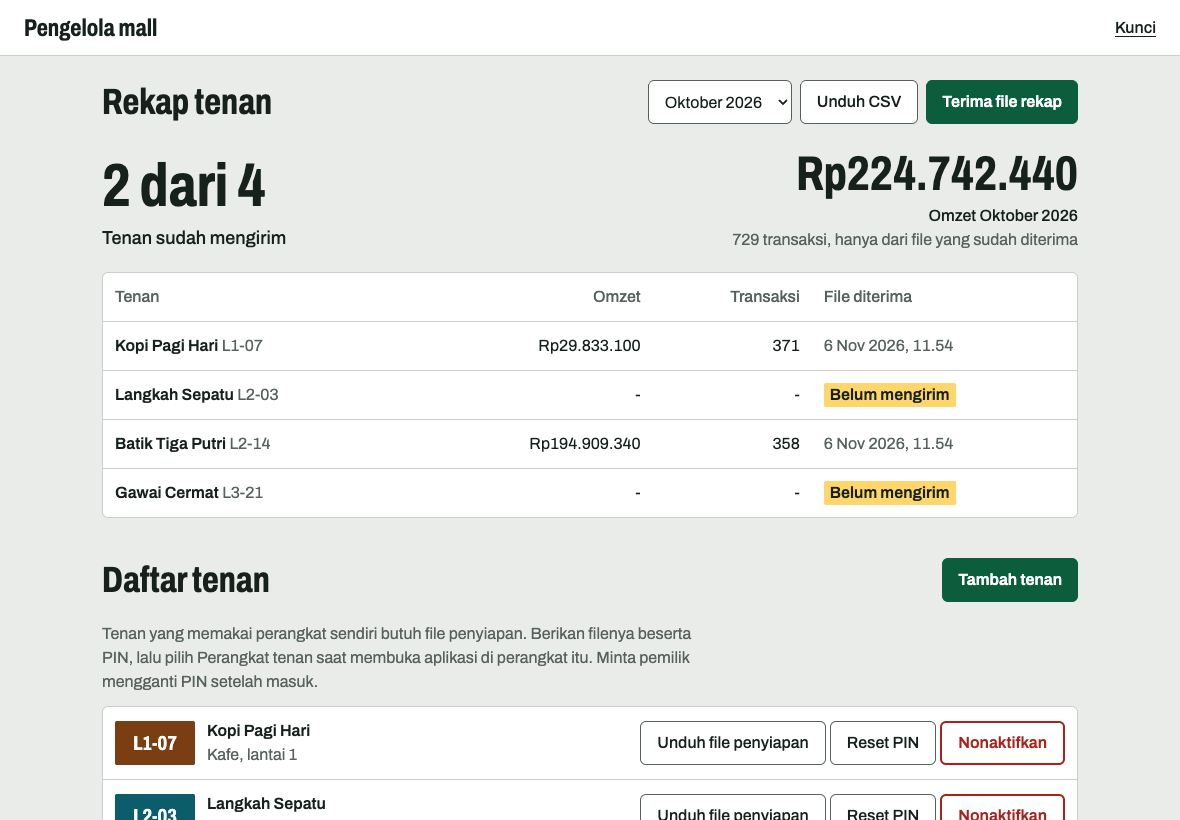
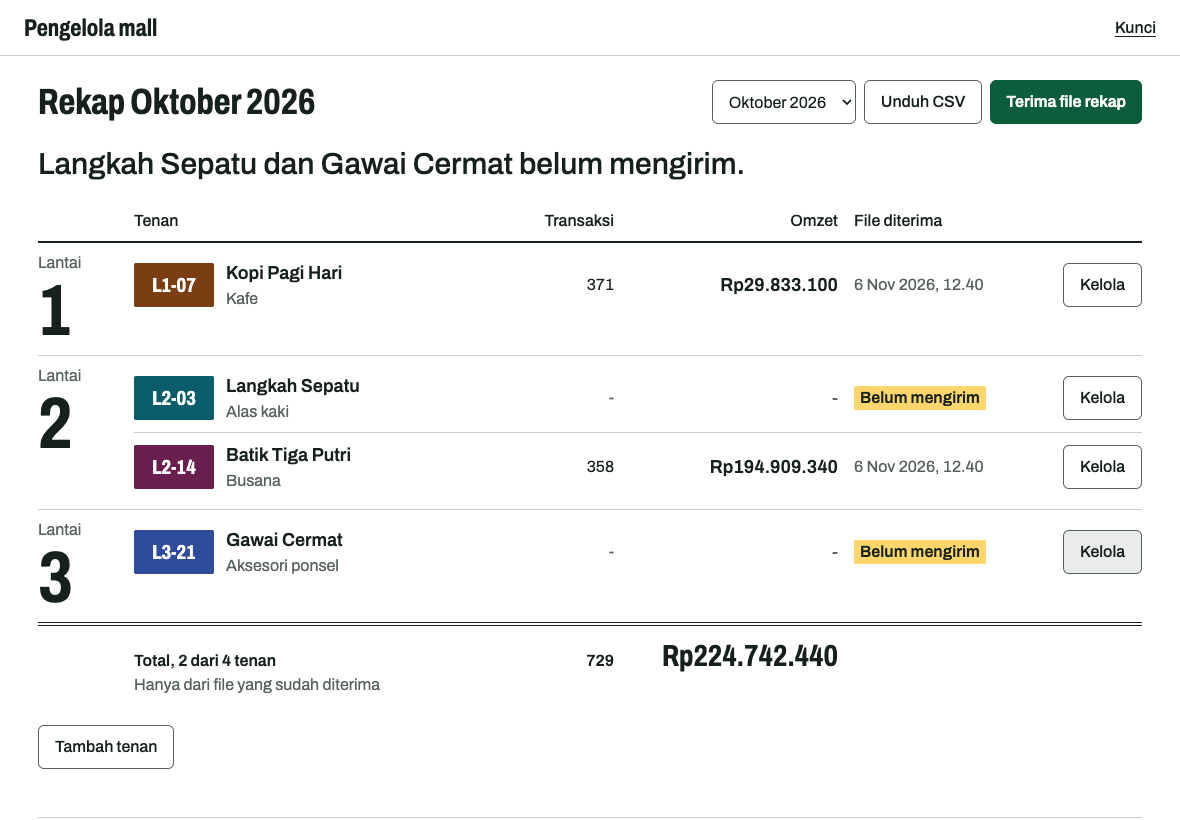
feat: susun ulang layar pengelola mall menjadi papan rekap per lantai
- Kalimat pembuka menyebut tenan yang belum mengirim
- Rekap dan daftar tenan digabung, dikelompokkan per lantai
- Total menjadi baris jumlah di bawah kolom
- Tindakan tenan pindah ke tombol Kelola, dan merah hanya untuk hapus data

diff --git a/src/screens/Admin.tsx b/src/screens/Admin.tsx
@@ -6,7 +6,86 @@ import { DEMO_ENABLED } from '../data/demo'
 import type { Backup, Tenant } from '../domain/schemas'
 import { reportError, useSession, useToast } from '../store'
 import { UpdateBanner } from '../ui/UpdateBanner'
-import { Button, Chip, Empty, Field, Input, Modal, PageTitle, PinInput, Select, UnitTag, dateTime, downloadFile, monthLabel, pickJsonFile, rupiah, sheet } from '../ui/kit'
+import { Button, Chip, Empty, Field, FloorLabel, Input, Modal, PageTitle, PinInput, Select, UnitTag, dateTime, downloadFile, monthLabel, pickJsonFile, rupiah } from '../ui/kit'
+
+type Rekap = Awaited<ReturnType<typeof repo.listRekap>>[number]
+
+/** Kolom papan rekap, sama untuk kepala, baris tenan, dan baris total. */
+const BOARD_COLUMNS = 'lg:grid-cols-[minmax(0,1fr)_6rem_13rem_11rem_6rem]'
+/** Kolom kiri selebar angka lantai, supaya kepala dan total sejajar dengan baris tenan. */
+const FLOOR_OFFSET = 'sm:pl-24'
+
+/** Kalimat pembuka menyebut nama tenan, supaya pengelola tidak perlu mencarinya di daftar. */
+function sendingSummary(activeCount: number, missing: Tenant[]) {
+  if (activeCount === 0) return 'Belum ada tenan aktif.'
+  if (missing.length === 0) return 'Semua tenan sudah mengirim.'
+  if (missing.length === activeCount) return 'Belum ada tenan yang mengirim.'
+  const names = missing.map((t) => t.name)
+  if (names.length === 1) return `${names[0]} belum mengirim.`
+  if (names.length <= 3) return `${names.slice(0, -1).join(', ')} dan ${names[names.length - 1]} belum mengirim.`
+  return `${names.slice(0, 2).join(', ')}, dan ${names.length - 2} tenan lain belum mengirim.`
+}
+
+function TenantRow({ ctx, tenant: t, rekap: r, open, onToggle, onResetPin }: { ctx: repo.Ctx; tenant: Tenant; rekap?: Rekap; open: boolean; onToggle: () => void; onResetPin: () => void }) {
+  const ok = (message: string) => useToast.getState().show(message)
+  return (
+    <li>
+      <div className={`grid grid-cols-[1fr_auto] items-center gap-x-4 gap-y-1 py-2 ${BOARD_COLUMNS}`}>
+        <div className="col-span-2 flex min-w-0 items-center gap-3 lg:col-span-1">
+          <UnitTag unit={t.unit} color={t.color} className="min-w-20 px-2 py-2 text-xl" />
+          <span className="min-w-0 break-words">
+            <span className="block text-lg font-semibold">{t.name}</span>
+            <span className="text-muted">{t.category}</span>
+          </span>
+        </div>
+        <div className={`tnum lg:text-right ${r ? '' : 'hidden lg:block lg:text-muted'}`}>
+          {r ? r.transactions : '-'}
+          <span className="text-muted lg:hidden"> transaksi</span>
+        </div>
+        <div className={`tnum text-right text-lg font-semibold whitespace-nowrap ${r ? '' : 'hidden lg:block lg:font-normal lg:text-muted'}`}>{r ? rupiah(r.net) : '-'}</div>
+        <div className="tnum text-muted">{r ? dateTime(r.importedAt) : <Chip>Belum mengirim</Chip>}</div>
+        <div className="text-right">
+          <Button aria-expanded={open} onClick={onToggle} className="px-3">
+            {open ? 'Tutup' : 'Kelola'}
+          </Button>
+        </div>
+      </div>
+      {open && (
+        <div className="mb-2 rounded-key bg-floor p-3">
+          <div className="flex flex-wrap gap-2">
+            <Button
+              onClick={async () => {
+                try {
+                  const setup = await repo.exportTenantSetup(ctx, t.id)
+                  downloadFile(`penyiapan-${t.unit}.json`, JSON.stringify(setup))
+                  ok(`File penyiapan ${t.name} diunduh. Pasang di perangkat tenan.`)
+                } catch (err) {
+                  reportError(err)
+                }
+              }}
+            >
+              Unduh file penyiapan
+            </Button>
+            <Button onClick={onResetPin}>Reset PIN</Button>
+            <Button
+              onClick={async () => {
+                try {
+                  await repo.setTenantActive(ctx, t.id, !t.active)
+                  ok(t.active ? `${t.name} dinonaktifkan.` : `${t.name} diaktifkan.`)
+                } catch (err) {
+                  reportError(err)
+                }
+              }}
+            >
+              {t.active ? 'Nonaktifkan' : 'Aktifkan'}
+            </Button>
+          </div>
+          <p className="mt-2 max-w-prose text-muted">Tenan yang memakai perangkat sendiri butuh file penyiapan. Berikan filenya beserta PIN, lalu pilih Perangkat tenan saat membuka aplikasi di perangkat itu. Minta pemilik mengganti PIN setelah masuk.</p>
+        </div>
+      )}
+    </li>
+  )
+}
 
 export function Admin({ ctx }: { ctx: repo.Ctx }) {
   const signOut = useSession((s) => s.signOut)
@@ -19,8 +98,17 @@ export function Admin({ ctx }: { ctx: repo.Ctx }) {
   const [restoring, setRestoring] = useState<Backup | null>(null)
   const [erasing, setErasing] = useState(false)
   const [pinTenant, setPinTenant] = useState<Tenant | null>(null)
+  const [managing, setManaging] = useState<string | null>(null)
 
   const sorted = [...tenants].sort((a, b) => a.unit.localeCompare(b.unit))
+  const active = sorted.filter((t) => t.active)
+  const inactive = sorted.filter((t) => !t.active)
+  const floors = [...new Set(active.map((t) => t.floor))].sort((a, b) => a - b)
+  const rekapOf = (t: Tenant) => rekap.find((x) => x.tenantId === t.id)
+  const missing = active.filter((t) => !rekapOf(t))
+  const row = (t: Tenant) => (
+    <TenantRow key={t.id} ctx={ctx} tenant={t} rekap={rekapOf(t)} open={managing === t.id} onToggle={() => setManaging(managing === t.id ? null : t.id)} onResetPin={() => setPinTenant(t)} />
+  )
   const total = rekap.reduce((sum, r) => sum + r.net, 0)
   const count = rekap.reduce((sum, r) => sum + r.transactions, 0)
   const ok = (message: string) => useToast.getState().show(message)
@@ -43,7 +131,7 @@ export function Admin({ ctx }: { ctx: repo.Ctx }) {
   }
 
   return (
-    <div className="h-full overflow-y-auto">
+    <div className="h-full overflow-y-auto bg-surface">
       <header className="flex min-h-14 items-center justify-between border-b border-line bg-surface pr-2 pl-4 sm:pl-6">
         <span className="sign text-2xl">Pengelola mall</span>
         <Button tone="quiet" className="px-2" onClick={signOut}>
@@ -51,127 +139,78 @@ export function Admin({ ctx }: { ctx: repo.Ctx }) {
         </Button>
       </header>
       <UpdateBanner />
-      <main className="mx-auto max-w-5xl space-y-10 p-4 sm:p-6">
-        <section>
-          <PageTitle title="Rekap tenan">
-            {months.length > 0 && (
-              <Select aria-label="Bulan rekap" value={month} onChange={(e) => setChosen(e.target.value)} className="w-auto!">
-                {months.map((m) => (
-                  <option key={m} value={m}>
-                    {monthLabel(m)}
-                  </option>
-                ))}
-              </Select>
-            )}
-            <Button disabled={!rekap.length} onClick={exportCsv}>
-              Unduh CSV
-            </Button>
-            <Button tone="primary" onClick={importFile}>
-              Terima file rekap
-            </Button>
-          </PageTitle>
-          {/* Pertanyaan pertama pengelola: siapa yang sudah mengirim, dan berapa totalnya. */}
-          <div className="mb-5 flex flex-wrap items-end justify-between gap-x-10 gap-y-3">
-            <p>
-              <span className="sign block text-6xl leading-tight">
-                {rekap.length} dari {tenants.filter((t) => t.active).length}
-              </span>
-              <span className="text-lg font-medium">Tenan sudah mengirim</span>
-            </p>
-            <p className="sm:text-right">
-              <span className="sign block text-5xl leading-tight break-words">{rupiah(total)}</span>
-              <span className="font-medium">Omzet {monthLabel(month)}</span>
-              <span className="tnum block text-muted">{count.toLocaleString('id-ID')} transaksi, hanya dari file yang sudah diterima</span>
-            </p>
-          </div>
-          <div className={`overflow-x-auto ${sheet}`}>
-            <table className="tnum w-full min-w-xl text-left">
-              <thead className="border-b border-line text-muted">
-                <tr>
-                  <th className="p-3 font-medium">Tenan</th>
-                  <th className="p-3 text-right font-medium">Omzet</th>
-                  <th className="p-3 text-right font-medium">Transaksi</th>
-                  <th className="p-3 font-medium">File diterima</th>
-                </tr>
-              </thead>
-              <tbody className="divide-y divide-line">
-                {sorted
-                  .filter((t) => t.active)
-                  .map((t) => {
-                    const r = rekap.find((x) => x.tenantId === t.id)
-                    return (
-                      <tr key={t.id}>
-                        <td className="p-3">
-                          <span className="font-semibold">{t.name}</span> <span className="whitespace-nowrap text-muted">{t.unit}</span>
-                        </td>
-                        <td className="p-3 text-right whitespace-nowrap">{r ? rupiah(r.net) : '-'}</td>
-                        <td className="p-3 text-right">{r ? r.transactions : '-'}</td>
-                        <td className="p-3 whitespace-nowrap text-muted">{r ? dateTime(r.importedAt) : <Chip>Belum mengirim</Chip>}</td>
-                      </tr>
-                    )
-                  })}
-              </tbody>
-            </table>
-          </div>
-        </section>
+      <main className="mx-auto max-w-6xl p-4 sm:p-6">
+        <PageTitle title={`Rekap ${monthLabel(month)}`}>
+          {months.length > 0 && (
+            <Select aria-label="Bulan rekap" value={month} onChange={(e) => setChosen(e.target.value)} className="w-auto!">
+              {months.map((m) => (
+                <option key={m} value={m}>
+                  {monthLabel(m)}
+                </option>
+              ))}
+            </Select>
+          )}
+          <Button disabled={!rekap.length} onClick={exportCsv}>
+            Unduh CSV
+          </Button>
+          <Button tone="primary" onClick={importFile}>
+            Terima file rekap
+          </Button>
+        </PageTitle>
 
-        <section>
-          <PageTitle title="Daftar tenan">
-            <Button tone="primary" onClick={() => setAdding(true)}>
-              Tambah tenan
-            </Button>
-          </PageTitle>
-          <p className="mb-3 max-w-prose text-muted">
-            Tenan yang memakai perangkat sendiri butuh file penyiapan. Berikan filenya beserta PIN, lalu pilih Perangkat tenan saat membuka aplikasi di perangkat itu. Minta pemilik mengganti PIN setelah masuk.
-          </p>
-          {sorted.length === 0 && <Empty title="Belum ada tenan.">Tambahkan tenan pertama untuk mulai.</Empty>}
-          <ul className={`divide-y divide-line ${sheet} ${sorted.length === 0 ? 'hidden' : ''}`}>
-            {sorted.map((t) => (
-              <li key={t.id} className="flex flex-wrap items-center gap-x-3 gap-y-2 p-3">
-                <UnitTag unit={t.unit} color={t.color} className="min-w-20 px-2 py-2 text-xl" />
-                <span className="min-w-40 flex-1 break-words">
-                  <span className="block font-semibold">{t.name}</span>
-                  <span className="text-muted">
-                    {t.category}, lantai {t.floor}
-                    {!t.active && ', nonaktif'}
-                  </span>
-                </span>
-                <span className="flex flex-wrap items-center gap-1">
-                  <Button
-                    onClick={async () => {
-                      try {
-                        const setup = await repo.exportTenantSetup(ctx, t.id)
-                        downloadFile(`penyiapan-${t.unit}.json`, JSON.stringify(setup))
-                        ok(`File penyiapan ${t.name} diunduh. Pasang di perangkat tenan.`)
-                      } catch (err) {
-                        reportError(err)
-                      }
-                    }}
-                  >
-                    Unduh file penyiapan
-                  </Button>
-                  <Button onClick={() => setPinTenant(t)}>Reset PIN</Button>
-                  <Button
-                    tone={t.active ? 'danger' : 'plain'}
-                    onClick={async () => {
-                      try {
-                        await repo.setTenantActive(ctx, t.id, !t.active)
-                        ok(t.active ? `${t.name} dinonaktifkan.` : `${t.name} diaktifkan.`)
-                      } catch (err) {
-                        reportError(err)
-                      }
-                    }}
-                  >
-                    {t.active ? 'Nonaktifkan' : 'Aktifkan'}
-                  </Button>
-                </span>
-              </li>
-            ))}
-          </ul>
-        </section>
+        <p className="mb-6 max-w-4xl text-2xl leading-snug font-medium sm:text-3xl">{sendingSummary(active.length, missing)}</p>
 
-        <section>
-          <h2 className="sign mb-1 text-3xl">Perangkat ini</h2>
+        {sorted.length === 0 ? (
+          <Empty title="Belum ada tenan.">Tambahkan tenan pertama untuk mulai.</Empty>
+        ) : (
+          <section aria-label="Papan rekap tenan">
+            <div className={`hidden border-b-2 border-ink pb-2 font-medium lg:block ${FLOOR_OFFSET}`} aria-hidden="true">
+              <div className={`grid gap-x-4 ${BOARD_COLUMNS}`}>
+                <span>Tenan</span>
+                <span className="text-right">Transaksi</span>
+                <span className="text-right">Omzet</span>
+                <span>File diterima</span>
+                <span />
+              </div>
+            </div>
+            <div className="divide-y divide-line border-t-2 border-ink lg:border-t-0">
+              {floors.map((floor) => (
+                <div key={floor} className="grid gap-x-4 py-2 sm:grid-cols-[5rem_1fr]">
+                  <FloorLabel floor={floor} />
+                  <ul className="min-w-0 divide-y divide-line">{active.filter((t) => t.floor === floor).map(row)}</ul>
+                </div>
+              ))}
+            </div>
+            {/* Baris jumlah seperti buku kas: inilah kesimpulan papan ini. */}
+            <div className={`border-t-4 border-double border-ink py-3 ${FLOOR_OFFSET}`}>
+              <div className={`grid grid-cols-[1fr_auto] items-baseline gap-x-4 ${BOARD_COLUMNS}`}>
+                <span className="col-span-2 font-semibold lg:col-span-1">
+                  Total, {active.length - missing.length} dari {active.length} tenan
+                  <span className="block font-normal text-muted">Hanya dari file yang sudah diterima</span>
+                </span>
+                <span className="tnum font-semibold lg:text-right">
+                  {count.toLocaleString('id-ID')}
+                  <span className="font-normal text-muted lg:hidden"> transaksi</span>
+                </span>
+                <span className="sign col-span-1 text-right text-3xl leading-tight whitespace-nowrap">{rupiah(total)}</span>
+              </div>
+            </div>
+          </section>
+        )}
+
+        <div className="mt-4">
+          <Button onClick={() => setAdding(true)}>Tambah tenan</Button>
+        </div>
+
+        {inactive.length > 0 && (
+          <section className={`mt-10 ${FLOOR_OFFSET}`}>
+            <h2 className="sign border-b-2 border-ink pb-2 text-2xl">Tenan nonaktif</h2>
+            <ul className="divide-y divide-line">{inactive.map(row)}</ul>
+          </section>
+        )}
+
+        <section className="mt-12 border-t border-line pt-5">
+          <h2 className="sign mb-1 text-2xl">Perangkat ini</h2>
           <p className="mb-3 max-w-prose text-muted">{DEMO_ENABLED ? 'Pulihkan backup tenan ke perangkat baru, atau kembalikan perangkat ini ke data contoh.' : 'Pulihkan backup tenan ke perangkat baru, atau kosongkan perangkat ini.'}</p>
           <div className="flex flex-wrap gap-2">
             <Button

diff --git a/src/screens/Login.tsx b/src/screens/Login.tsx
@@ -4,7 +4,7 @@ import * as repo from '../data/repo'
 import { DEMO_PINS } from '../data/demo'
 import type { Tenant } from '../domain/schemas'
 import { reportError, useSession } from '../store'
-import { Button, RevealButton, Segmented, UnitTag, pickJsonFile, sheet } from '../ui/kit'
+import { Button, FloorLabel, RevealButton, Segmented, UnitTag, pickJsonFile, sheet } from '../ui/kit'
 import { installTenantFile } from './Setup'
 
 type Target = { kind: 'tenant'; tenant: Tenant } | { kind: 'mall' }
@@ -35,11 +35,7 @@ export function Login() {
         <div className="mt-8 space-y-6">
           {floors.map((floor) => (
             <section key={floor} className="grid gap-x-4 gap-y-2 sm:grid-cols-[5rem_1fr]">
-              {/* Angka lantai dibaca seperti papan lift. */}
-              <h2 className="flex items-baseline gap-2 sm:block">
-                <span className="text-muted">Lantai</span>
-                <span className="sign block text-4xl leading-none sm:text-7xl">{floor}</span>
-              </h2>
+              <FloorLabel floor={floor} />
               <ul className={`self-start divide-y divide-line ${sheet}`}>
                 {active
                   .filter((t) => t.floor === floor)

diff --git a/src/ui/kit.tsx b/src/ui/kit.tsx
@@ -104,6 +104,16 @@ export function UnitTag({ unit, color, className = 'px-2 py-1 text-lg' }: { unit
   )
 }
 
+/** Angka lantai dibaca seperti papan lift, dipakai di direktori dan papan rekap. */
+export function FloorLabel({ floor }: { floor: number }) {
+  return (
+    <h3 className="flex items-baseline gap-2 sm:block">
+      <span className="text-muted">Lantai</span>
+      <span className="sign block text-4xl leading-none sm:text-7xl">{floor}</span>
+    </h3>
+  )
+}
+
 export function Chip({ children }: { children: ReactNode }) {
   return <span className="inline-block rounded-[2px] bg-warn px-1.5 font-semibold whitespace-nowrap text-ink">{children}</span>
 }
